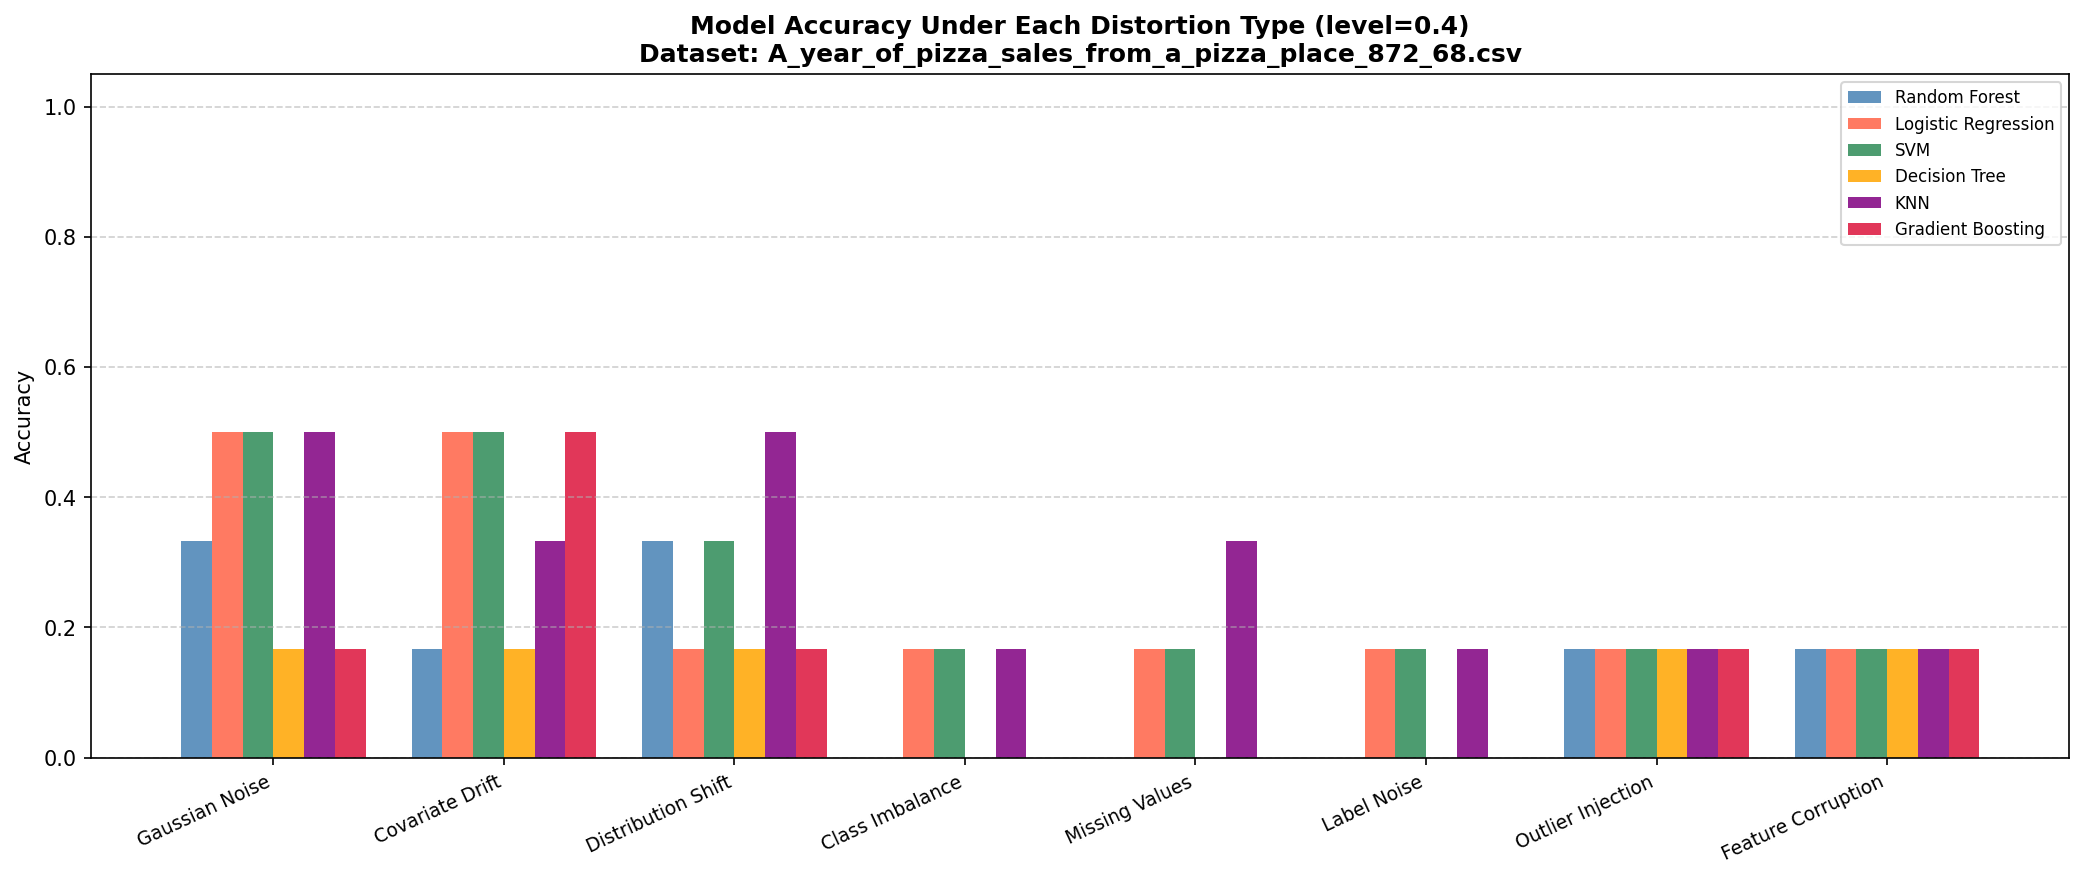
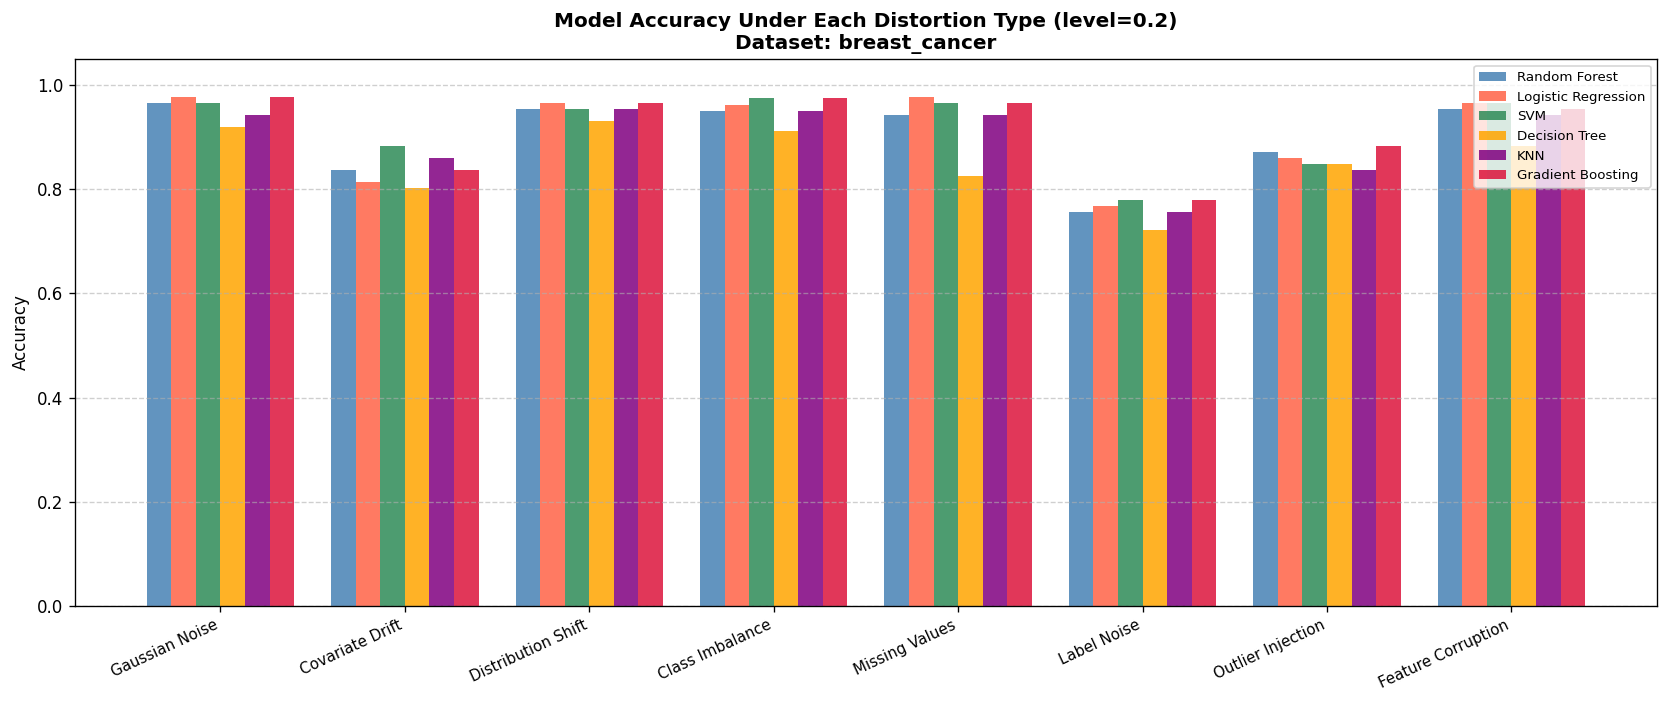
docs: update README charts from run_018

diff --git a/README.md b/README.md
@@ -10,6 +10,10 @@ Simulate how ML classification models degrade under real-world data distortions 
 
 ![per_distortion](per_distortion.png)
 
+## ⏱ Reliability Horizon Chart
+
+![reliability](reliability.png)
+
 ---
 
 ## What it does
